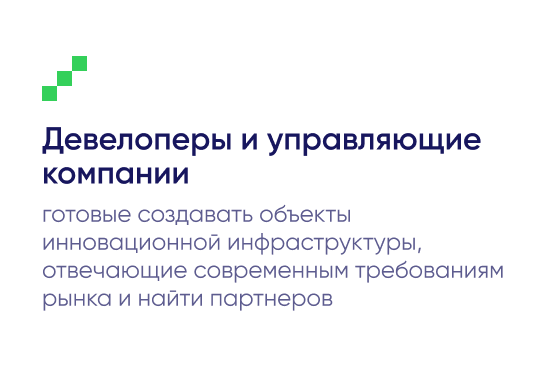
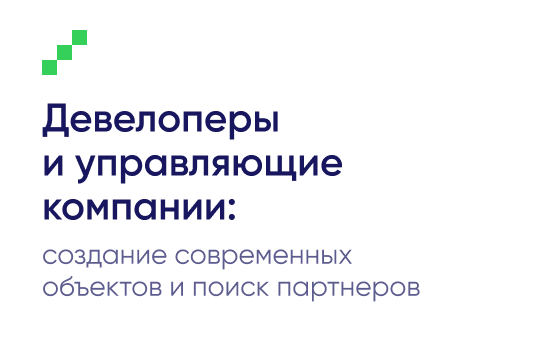
change mik-310

Changed region(s): [[0.062, 0.0625, 0.9307, 0.8438]]

diff --git a/mik-310/Форум технологической инфраструктуры.html b/mik-310/Форум технологической инфраструктуры.html
@@ -103,7 +103,7 @@
                                         <tr>
                                             <td style="width:600px;">
                                                 <a href="https://i.moscow/fti?utm_source=marketing&utm_medium=email&utm_campaign=digital&utm_content=fti26&utm_term=19022026" target="_blank">
-                                                    <img alt="Форум технологической инфраструктуры. 19-20 марта. Крупнейшее событие для развития бизнес- и технопарков, институтов развития и инновационных экосистем. Нажмите здесь, чтобы принять участие." height="auto" src="https://cp.unisender.com/ru/user_file?resource=images&user_id=5608985&name=mik-310-hero.png" style="border:0;display:block;outline:none;text-decoration:none;height:auto;width:100%;font-size:13px;" width="600" />
+                                                    <img alt="Форум технологической инфраструктуры. 19-20 марта. Нажмите здесь, чтобы принять участие." height="auto" src="https://cp.unisender.com/ru/user_file?resource=images&user_id=5608985&name=mik-310-hero.png" style="border:0;display:block;outline:none;text-decoration:none;height:auto;width:100%;font-size:13px;" width="600" />
                                                 </a>
                                             </td>
                                         </tr>
@@ -125,14 +125,14 @@
         <table align="center" border="0" cellpadding="0" cellspacing="0" role="presentation" style="width:100%;border-radius:20px;">
             <tbody>
             <tr>
-                <td style="direction:ltr;font-size:0px;padding:21px 20px 16px;">
+                <td style="direction:ltr;font-size:0px;padding:21px 20px 19px;">
                     <!--[if mso | IE]><table role="presentation" border="0" cellpadding="0" cellspacing="0"><tr><td class="" style="vertical-align:top;width:100%" ><![endif]-->
                     <div class="mj-outlook-group-fix" style="font-size:0px;text-align:left;direction:ltr;display:inline-block;vertical-align:top;width:100%;">
                         <table border="0" cellpadding="0" cellspacing="0" role="presentation" style="vertical-align:top;" width="100%">
                             <tbody>
                             <tr>
                                 <td align="left" style="font-size:0px;word-break:break-word;">
-                                    <div style="font-family: Gilroy, Helvetica, Arial, sans-serif;font-size:16px;font-weight:400;line-height:120%;text-align:left;color:#FFFFFF;">Россия активно развивает бизнес-&nbsp;и&nbsp;технопарки для интеграции науки, технологий и&nbsp;бизнеса. К&nbsp;2030 году планируется открыть не менее 100&nbsp;таких объектов. <span style="font-weight:600;">Форум технологической инфраструктуры</span> соберет на&nbsp;одной площадке участников рынка, чтобы обсудить лучшие практики, механизмы поддержки резидентов и&nbsp;эффективные форматы государственно-частного партнерства.</div>
+                                    <div style="font-family: Gilroy, Helvetica, Arial, sans-serif;font-size:16px;font-weight:400;line-height:120%;text-align:left;color:#FFFFFF;"><span style="font-weight:600;">II&nbsp;Форум технологической инфраструктуры</span> – ключевое отраслевое мероприятие, посвященное созданию и&nbsp;развитию территорий для инноваций. Главная цель события –&nbsp;определить точки роста и&nbsp;найти решения для эффективного развития технологической инфраструктуры столицы.</div>
                                 </td>
                             </tr>
                             </tbody>
@@ -174,61 +174,52 @@
             <tbody>
             <tr>
                 <td style="direction:ltr;font-size:0px;text-align:center;padding:0 5px;">
-                    <!--[if mso | IE]><table role="presentation" border="0" cellpadding="0" cellspacing="0"><tr><td class="" style="vertical-align:top;width:180px;margin-left:5px;margin-right:5px;margin-bottom:10px;" ><![endif]-->
-                    <div class="mj-outlook-group-fix" style="font-size:0px;text-align:left;direction:ltr;display:inline-block;vertical-align:top;width:180px;margin-left:5px;margin-right:5px;margin-bottom:10px;">
+                    <!--[if mso | IE]><table role="presentation" border="0" cellpadding="0" cellspacing="0"><tr><td class="" style="vertical-align:top;width:164px;margin-left:21px;margin-right:21px;margin-bottom:21px;" ><![endif]-->
+                    <div class="mj-outlook-group-fix" style="font-size:0px;text-align:left;direction:ltr;display:inline-block;vertical-align:top;width:164px;margin-left:21px;margin-right:21px;margin-bottom:21px;">
                         <table border="0" cellpadding="0" cellspacing="0" role="presentation" style="vertical-align:top;" width="100%">
                             <tbody>
                             <tr>
-                                <td align="center" style="font-size:0px;word-break:break-word;">
-                                    <table border="0" cellpadding="0" cellspacing="0" role="presentation" style="border-collapse:collapse;border-spacing:0px;">
-                                        <tbody>
-                                        <tr>
-                                            <td style="width:180px;">
-                                                <img alt="1500+ участников" height="auto" src="https://cp.unisender.com/ru/user_file?resource=images&user_id=5608985&name=mik-310-content-img-1_1.png" style="border:0;display:block;outline:none;text-decoration:none;height:auto;width:100%;font-size:13px;" width="180" />
-                                            </td>
-                                        </tr>
-                                        </tbody>
-                                    </table>
+                                <td align="left" style="font-size:0px;word-break:break-word;padding-bottom:2px;">
+                                    <div style="font-family: Gilroy, Helvetica, Arial, sans-serif;font-size:60px;font-weight:600;line-height:120%;text-align:left;color:#FFFFFF;">1500+</div>
+                                </td>
+                            </tr>
+                            <tr>
+                                <td align="left" style="font-size:0px;word-break:break-word;">
+                                    <div style="font-family: Gilroy, Helvetica, Arial, sans-serif;font-size:21px;font-weight:400;line-height:120%;text-align:left;color:#FFFFFF;">участников</div>
                                 </td>
                             </tr>
                             </tbody>
                         </table>
                     </div>
-                    <!--[if mso | IE]></td><td class="" style="vertical-align:top;width:180px;margin-left:5px;margin-right:5px;margin-bottom:10px;" ><![endif]-->
-                    <div class="mj-outlook-group-fix" style="font-size:0px;text-align:left;direction:ltr;display:inline-block;vertical-align:top;width:180px;margin-left:5px;margin-right:5px;margin-bottom:10px;">
+                    <!--[if mso | IE]></td><td class="" style="vertical-align:top;width:139px;margin-left:21px;margin-right:21px;margin-bottom:21px;" ><![endif]-->
+                    <div class="mj-outlook-group-fix" style="font-size:0px;text-align:left;direction:ltr;display:inline-block;vertical-align:top;width:139px;margin-left:21px;margin-right:21px;margin-bottom:21px;">
                         <table border="0" cellpadding="0" cellspacing="0" role="presentation" style="vertical-align:top;" width="100%">
                             <tbody>
                             <tr>
-                                <td align="center" style="font-size:0px;word-break:break-word;">
-                                    <table border="0" cellpadding="0" cellspacing="0" role="presentation" style="border-collapse:collapse;border-spacing:0px;">
-                                        <tbody>
-                                        <tr>
-                                            <td style="width:180px;">
-                                                <img alt="50+ спикеров" height="auto" src="https://cp.unisender.com/ru/user_file?resource=images&user_id=5608985&name=mik-310-content-img-1_2.png" style="border:0;display:block;outline:none;text-decoration:none;height:auto;width:100%;font-size:13px;" width="180" />
-                                            </td>
-                                        </tr>
-                                        </tbody>
-                                    </table>
+                                <td align="left" style="font-size:0px;word-break:break-word;padding-bottom:2px;">
+                                    <div style="font-family: Gilroy, Helvetica, Arial, sans-serif;font-size:60px;font-weight:600;line-height:120%;text-align:left;color:#FFFFFF;">50+</div>
+                                </td>
+                            </tr>
+                            <tr>
+                                <td align="left" style="font-size:0px;word-break:break-word;">
+                                    <div style="font-family: Gilroy, Helvetica, Arial, sans-serif;font-size:21px;font-weight:400;line-height:120%;text-align:left;color:#FFFFFF;">спикеров</div>
                                 </td>
                             </tr>
                             </tbody>
                         </table>
                     </div>
-                    <!--[if mso | IE]></td><td class="" style="vertical-align:top;width:180px;margin-left:5px;margin-right:5px;margin-bottom:10px;" ><![endif]-->
-                    <div class="mj-outlook-group-fix" style="font-size:0px;text-align:left;direction:ltr;display:inline-block;vertical-align:top;width:180px;margin-left:5px;margin-right:5px;margin-bottom:10px;">
+                    <!--[if mso | IE]></td><td class="" style="vertical-align:top;width:97px;margin-left:21px;margin-right:21px;" ><![endif]-->
+                    <div class="mj-outlook-group-fix" style="font-size:0px;text-align:left;direction:ltr;display:inline-block;vertical-align:top;width:97px;margin-left:21px;margin-right:21px">
                         <table border="0" cellpadding="0" cellspacing="0" role="presentation" style="vertical-align:top;" width="100%">
                             <tbody>
                             <tr>
-                                <td align="center" style="font-size:0px;word-break:break-word;">
-                                    <table border="0" cellpadding="0" cellspacing="0" role="presentation" style="border-collapse:collapse;border-spacing:0px;">
-                                        <tbody>
-                                        <tr>
-                                            <td style="width:180px;">
-                                                <img alt="25+ сессий деловой программы" height="auto" src="https://cp.unisender.com/ru/user_file?resource=images&user_id=5608985&name=mik-310-content-img-1_3.png" style="border:0;display:block;outline:none;text-decoration:none;height:auto;width:100%;font-size:13px;" width="180" />
-                                            </td>
-                                        </tr>
-                                        </tbody>
-                                    </table>
+                                <td align="left" style="font-size:0px;word-break:break-word;padding-bottom:2px;">
+                                    <div style="font-family: Gilroy, Helvetica, Arial, sans-serif;font-size:60px;font-weight:600;line-height:120%;text-align:left;color:#FFFFFF;">25+</div>
+                                </td>
+                            </tr>
+                            <tr>
+                                <td align="left" style="font-size:0px;word-break:break-word;">
+                                    <div style="font-family: Gilroy, Helvetica, Arial, sans-serif;font-size:21px;font-weight:400;line-height:120%;text-align:left;color:#FFFFFF;">сессий</div>
                                 </td>
                             </tr>
                             </tbody>
@@ -251,7 +242,7 @@
                         <table border="0" cellpadding="0" cellspacing="0" role="presentation" style="vertical-align:top;" width="100%">
                             <tbody>
                             <tr>
-                                <td align="left" style="font-size:0px;word-break:break-word;padding:21px 0 15px;">
+                                <td align="left" style="font-size:0px;word-break:break-word;padding:7px 0 15px;">
                                     <div style="font-family: Gilroy, Helvetica, Arial, sans-serif;font-size:30px;font-weight:500;line-height:120%;text-align:left;color:#FFFFFF;">ДЛЯ КОГО</div>
                                 </td>
                             </tr>
@@ -280,7 +271,7 @@
                                         <tbody>
                                         <tr>
                                             <td style="width:274px;">
-                                                <img alt="Собственники технологических площадок, которые которые хотят повысить эффективность управления существующей инфраструктурой и развивать экосистему для инновационного предпринимательства" height="auto" src="https://cp.unisender.com/ru/user_file?resource=images&user_id=5608985&name=mik-310-content-img-2_1.png" style="border:0;display:block;outline:none;text-decoration:none;height:auto;width:100%;font-size:13px;" width="274" />
+                                                <img alt="Собственники технологических площадок: оптимизация инфраструктуры и развитие экосистемы стартапов" height="auto" src="https://cp.unisender.com/ru/user_file?resource=images&user_id=5608985&name=mik-310-content-img-2_1.png" style="border:0;display:block;outline:none;text-decoration:none;height:auto;width:100%;font-size:13px;" width="274" />
                                             </td>
                                         </tr>
                                         </tbody>
@@ -300,7 +291,7 @@
                                         <tbody>
                                         <tr>
                                             <td style="width:274px;">
-                                                <img alt="Девелоперы и управляющие компании, готовые создавать объекты инновационной инфраструктуры, отвечающие современным требованиям рынка и найти партнеров" height="auto" src="https://cp.unisender.com/ru/user_file?resource=images&user_id=5608985&name=mik-310-content-img-2_2.png" style="border:0;display:block;outline:none;text-decoration:none;height:auto;width:100%;font-size:13px;" width="274" />
+                                                <img alt="Девелоперы и управляющие компании: создание современных объектов и поиск партнеров" height="auto" src="https://cp.unisender.com/ru/user_file?resource=images&user_id=5608985&name=mik-310-content-img-2_2.png" style="border:0;display:block;outline:none;text-decoration:none;height:auto;width:100%;font-size:13px;" width="274" />
                                             </td>
                                         </tr>
                                         </tbody>
@@ -332,7 +323,7 @@
                                         <tbody>
                                         <tr>
                                             <td style="width:274px;">
-                                                <img alt="Банки и инвестиционные фонды, рассматривающие возможность финансирования технологической инфраструктуры" height="auto" src="https://cp.unisender.com/ru/user_file?resource=images&user_id=5608985&name=mik-310-content-img-2_3.png" style="border:0;display:block;outline:none;text-decoration:none;height:auto;width:100%;font-size:13px;" width="274" />
+                                                <img alt="Банки и инвестиционные фонды: поиск проектов для инвестирования" height="auto" src="https://cp.unisender.com/ru/user_file?resource=images&user_id=5608985&name=mik-310-content-img-2_3.png" style="border:0;display:block;outline:none;text-decoration:none;height:auto;width:100%;font-size:13px;" width="274" />
                                             </td>
                                         </tr>
                                         </tbody>
@@ -352,7 +343,7 @@
                                         <tbody>
                                         <tr>
                                             <td style="width:274px;">
-                                                <img alt="Проектировщики, дизайнеры и архитекторы, которые смогут познакомиться с потребностями технологических площадок и предложить решения" height="auto" src="https://cp.unisender.com/ru/user_file?resource=images&user_id=5608985&name=mik-310-content-img-2_4.png" style="border:0;display:block;outline:none;text-decoration:none;height:auto;width:100%;font-size:13px;" width="274" />
+                                                <img alt="Проектировщики, дизайнеры и архитекторы: изучение потребностей инновационных площадок" height="auto" src="https://cp.unisender.com/ru/user_file?resource=images&user_id=5608985&name=mik-310-content-img-2_4.png" style="border:0;display:block;outline:none;text-decoration:none;height:auto;width:100%;font-size:13px;" width="274" />
                                             </td>
                                         </tr>
                                         </tbody>
@@ -384,7 +375,7 @@
                                         <tbody>
                                         <tr>
                                             <td style="width:274px;">
-                                                <img alt="Институты развития, готовые поделиться своей экспертизой, инструментами поддержки, проектами и инициативами" height="auto" src="https://cp.unisender.com/ru/user_file?resource=images&user_id=5608985&name=mik-310-content-img-2_5.png" style="border:0;display:block;outline:none;text-decoration:none;height:auto;width:100%;font-size:13px;" width="274" />
+                                                <img alt="Институты развития: обмен проектами и инициативами" height="auto" src="https://cp.unisender.com/ru/user_file?resource=images&user_id=5608985&name=mik-310-content-img-2_5.png" style="border:0;display:block;outline:none;text-decoration:none;height:auto;width:100%;font-size:13px;" width="274" />
                                             </td>
                                         </tr>
                                         </tbody>
@@ -404,7 +395,7 @@
                                         <tbody>
                                         <tr>
                                             <td style="width:274px;">
-                                                <img alt="Федеральные и региональные органы власти, заинтересованные в развитии инновационной экономики" height="auto" src="https://cp.unisender.com/ru/user_file?resource=images&user_id=5608985&name=mik-310-content-img-2_6.png" style="border:0;display:block;outline:none;text-decoration:none;height:auto;width:100%;font-size:13px;" width="274" />
+                                                <img alt="Органы власти: развитие инновационной экономики" height="auto" src="https://cp.unisender.com/ru/user_file?resource=images&user_id=5608985&name=mik-310-content-img-2_6.png" style="border:0;display:block;outline:none;text-decoration:none;height:auto;width:100%;font-size:13px;" width="274" />
                                             </td>
                                         </tr>
                                         </tbody>
@@ -470,8 +461,8 @@
                             </tbody>
                         </table>
                     </div>
-                    <!--[if mso | IE]></td><td class="" style="vertical-align:top;max-width:284px;width:100%;" ><![endif]-->
-                    <div class="mj-outlook-group-fix" style="font-size:0px;text-align:left;direction:ltr;display:inline-block;vertical-align:top;max-width:284px;width:100%;">
+                    <!--[if mso | IE]></td><td class="" style="vertical-align:top;max-width:392px;width:100%;" ><![endif]-->
+                    <div class="mj-outlook-group-fix" style="font-size:0px;text-align:left;direction:ltr;display:inline-block;vertical-align:top;max-width:392px;width:100%;">
                         <table border="0" cellpadding="0" cellspacing="0" role="presentation" style="vertical-align:top;" width="100%">
                             <tbody>
                             <tr>
@@ -519,13 +510,13 @@
                             </tbody>
                         </table>
                     </div>
-                    <!--[if mso | IE]></td><td class="" style="vertical-align:top;max-width:284px;width:100%;" ><![endif]-->
-                    <div class="mj-outlook-group-fix" style="font-size:0px;text-align:left;direction:ltr;display:inline-block;vertical-align:top;max-width:284px;width:100%;">
+                    <!--[if mso | IE]></td><td class="" style="vertical-align:top;max-width:392px;width:100%;" ><![endif]-->
+                    <div class="mj-outlook-group-fix" style="font-size:0px;text-align:left;direction:ltr;display:inline-block;vertical-align:top;max-width:392px;width:100%;">
                         <table border="0" cellpadding="0" cellspacing="0" role="presentation" style="vertical-align:top;" width="100%">
                             <tbody>
                             <tr>
                                 <td align="left" style="font-size:0px;word-break:break-word;padding:19px 0 1px;">
-                                    <div style="font-family: Gilroy, Helvetica, Arial, sans-serif;font-size:16px;font-weight:600;line-height:120%;text-align:left;color:#FFFFFF;">Обсуждение механизмов поддержки:</div>
+                                    <div style="font-family: Gilroy, Helvetica, Arial, sans-serif;font-size:16px;font-weight:600;line-height:120%;text-align:left;color:#FFFFFF;">Обсуждение мер поддержки:</div>
                                 </td>
                             </tr>
                             <tr>
@@ -568,8 +559,8 @@
                             </tbody>
                         </table>
                     </div>
-                    <!--[if mso | IE]></td><td class="" style="vertical-align:top;max-width:284px;width:100%;" ><![endif]-->
-                    <div class="mj-outlook-group-fix" style="font-size:0px;text-align:left;direction:ltr;display:inline-block;vertical-align:top;max-width:284px;width:100%;">
+                    <!--[if mso | IE]></td><td class="" style="vertical-align:top;max-width:392px;width:100%;" ><![endif]-->
+                    <div class="mj-outlook-group-fix" style="font-size:0px;text-align:left;direction:ltr;display:inline-block;vertical-align:top;max-width:392px;width:100%;">
                         <table border="0" cellpadding="0" cellspacing="0" role="presentation" style="vertical-align:top;" width="100%">
                             <tbody>
                             <tr>
@@ -622,7 +613,7 @@
                         <table border="0" cellpadding="0" cellspacing="0" role="presentation" style="vertical-align:top;" width="100%">
                             <tbody>
                             <tr>
-                                <td align="left" style="font-size:0px;word-break:break-word;padding-top:21px;">
+                                <td align="left" style="font-size:0px;word-break:break-word;padding-top:32px;">
                                     <div style="font-family: Gilroy, Helvetica, Arial, sans-serif;font-size:16px;font-weight:400;line-height:120%;text-align:left;color:#FFFFFF;">Не&nbsp;упустите шанс стать частью крупнейшего события для технологических площадок и&nbsp;инновационных экосистем. Количество мест ограничено.</div>
                                 </td>
                             </tr>
@@ -640,7 +631,7 @@
         <table align="center" border="0" cellpadding="0" cellspacing="0" role="presentation" style="width:100%;">
             <tbody>
             <tr>
-                <td style="direction:ltr;font-size:0px;padding:77px 20px 46px;">
+                <td style="direction:ltr;font-size:0px;padding:46px 20px;">
                     <!--[if mso | IE]><table role="presentation" border="0" cellpadding="0" cellspacing="0"><tr><td class="" style="vertical-align:top;width:100%" ><![endif]-->
                     <div class="mj-outlook-group-fix" style="font-size:0px;text-align:left;direction:ltr;display:inline-block;vertical-align:top;width:100%;">
                         <table border="0" cellpadding="0" cellspacing="0" role="presentation" style="vertical-align:top;" width="100%">
